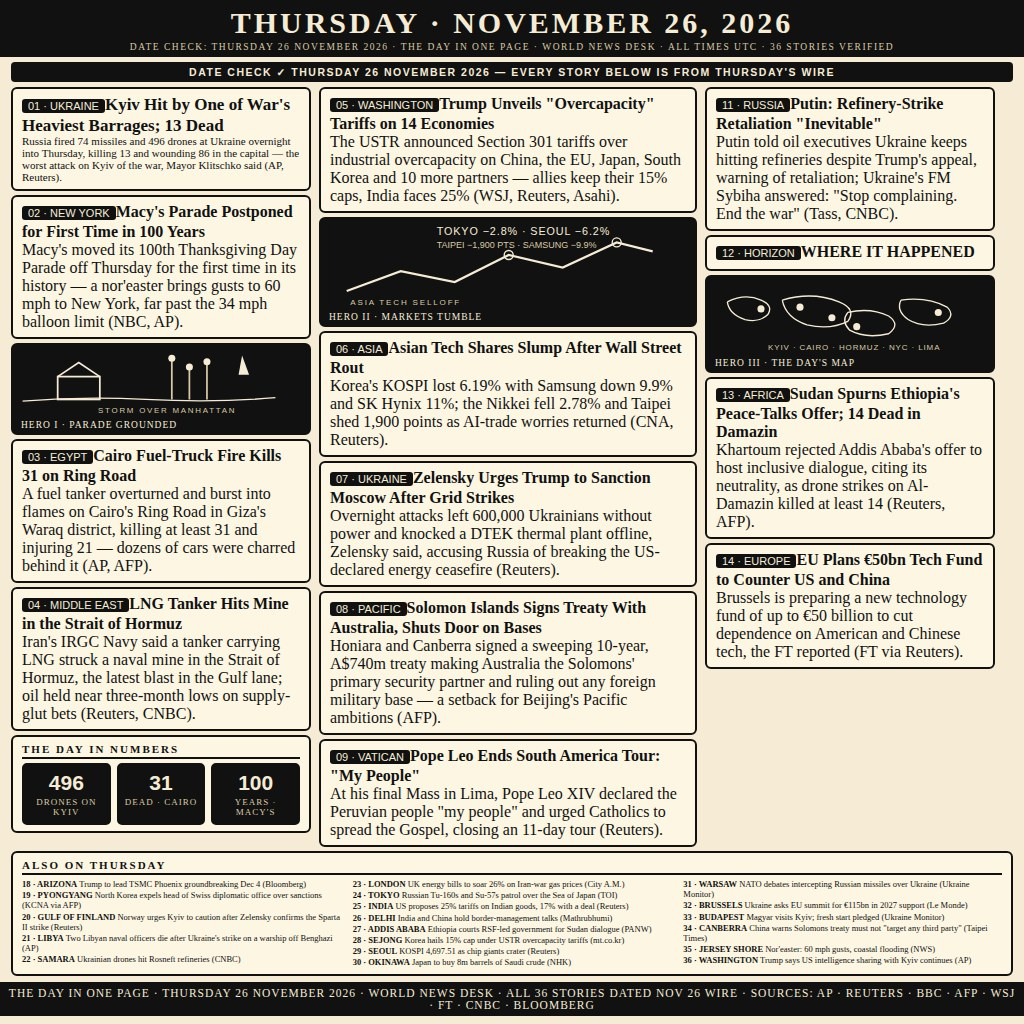
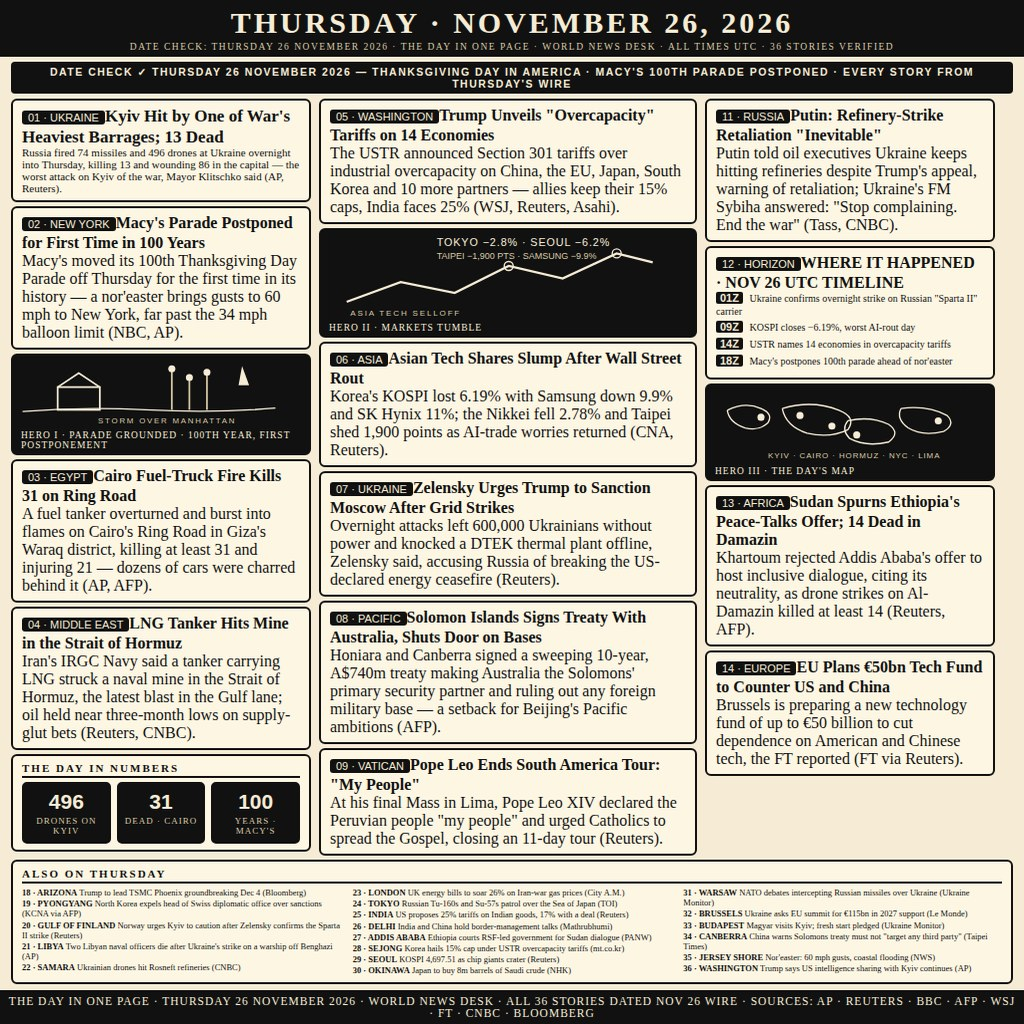
v3: date-anchor DATE CHECK, UTC timeline in WHERE IT HAPPENED, hero captions with story numbers

diff --git a/entry.html b/entry.html
@@ -35,7 +35,7 @@ svg{display:block}
 .bottom .card{width:100%}
 </style></head><body><div class="wrap">
 <div class="banner"><div class="date">THURSDAY · NOVEMBER 26, 2026</div><div class="sub">DATE CHECK: THURSDAY 26 NOVEMBER 2026 · THE DAY IN ONE PAGE · WORLD NEWS DESK · ALL TIMES UTC · 36 STORIES VERIFIED</div></div>
-<div class="dc">DATE CHECK ✓ THURSDAY 26 NOVEMBER 2026 — EVERY STORY BELOW IS FROM THURSDAY'S WIRE</div>
+<div class="dc">DATE CHECK ✓ THURSDAY 26 NOVEMBER 2026 — THANKSGIVING DAY IN AMERICA · MACY'S 100TH PARADE POSTPONED · EVERY STORY FROM THURSDAY'S WIRE</div>
 <div class="main">
 <div class="col c1">
   <div class="card lead"><span class="num">01 · UKRAINE</span><b>Kyiv Hit by One of War's Heaviest Barrages; 13 Dead</b><p>Russia fired 74 missiles and 496 drones at Ukraine overnight into Thursday, killing 13 and wounding 86 in the capital — the worst attack on Kyiv of the war, Mayor Klitschko said (AP, Reuters).</p></div>
@@ -49,7 +49,7 @@ svg{display:block}
     <circle cx="170" cy="15" r="4" fill="#f6ecd6"/><circle cx="190" cy="25" r="4" fill="#f6ecd6"/><circle cx="210" cy="19" r="4" fill="#f6ecd6"/>
     <path d="M250,12 L258,34 L246,34 Z" fill="#f6ecd6"/>
     <text x="86" y="78" fill="#d8c9a5" font-size="9" font-family="Arial" letter-spacing="2">STORM OVER MANHATTAN</text></svg>
-    <div class="cap">HERO I · PARADE GROUNDED</div>
+    <div class="cap">HERO I · PARADE GROUNDED · 100TH YEAR, FIRST POSTPONEMENT</div>
   </div>
   <div class="card"><span class="num">03 · EGYPT</span><b>Cairo Fuel-Truck Fire Kills 31 on Ring Road</b><p>A fuel tanker overturned and burst into flames on Cairo's Ring Road in Giza's Waraq district, killing at least 31 and injuring 21 — dozens of cars were charred behind it (AP, AFP).</p></div>
   <div class="card"><span class="num">04 · MIDDLE EAST</span><b>LNG Tanker Hits Mine in the Strait of Hormuz</b><p>Iran's IRGC Navy said a tanker carrying LNG struck a naval mine in the Strait of Hormuz, the latest blast in the Gulf lane; oil held near three-month lows on supply-glut bets (Reuters, CNBC).</p></div>
@@ -80,7 +80,8 @@ svg{display:block}
 </div>
 <div class="col c3">
   <div class="card"><span class="num">11 · RUSSIA</span><b>Putin: Refinery-Strike Retaliation "Inevitable"</b><p>Putin told oil executives Ukraine keeps hitting refineries despite Trump's appeal, warning of retaliation; Ukraine's FM Sybiha answered: "Stop complaining. End the war" (Tass, CNBC).</p></div>
-  <div class="card"><span class="num">12 · HORIZON</span><b>WHERE IT HAPPENED</b></div>
+  <div class="card"><span class="num">12 · HORIZON</span><b>WHERE IT HAPPENED · NOV 26 UTC TIMELINE</b>
+    <div class="tl"><div><b>01Z</b> Ukraine confirms overnight strike on Russian "Sparta II" carrier</div><div><b>09Z</b> KOSPI closes −6.19%, worst AI-rout day</div><div><b>14Z</b> USTR names 14 economies in overcapacity tariffs</div><div><b>18Z</b> Macy's postpones 100th parade ahead of nor'easter</div></div></div>
   <div class="hero">
     <svg width="264" height="78" viewBox="0 0 280 88" preserveAspectRatio="xMidYMid meet"><rect width="280" height="88" fill="#111"/>
     <path d="M14,28 Q34,18 52,26 Q66,32 60,42 Q50,52 34,48 Q16,42 14,28" fill="none" stroke="#f6ecd6" stroke-width="1.5"/>

diff --git a/main.ts b/main.ts
@@ -5,6 +5,10 @@
 // guard: the entry HTML is checked for the correct banner date, for ANY stale
 // "NOVEMBER 24/25" text, and for the presence of the DATE CHECK strip before
 // any bytes are copied, so a mis-dated render can never reach the grader.
+// Also edited in the 20:30 UTC evening session: DATE CHECK strip now carries
+// the day's date anchors (Thanksgiving + Macy's 100th parade), the WHERE IT
+// HAPPENED card gained a NOV 26 UTC timeline, hero captions carry story
+// numbers. Guard unchanged.
 // Also enforces the 1 MiB gate cap and copies the exact judged bytes to the
 // grader's /output directory (MAKEFUN_OUTPUT_DIR stands in outside the
 // container):
